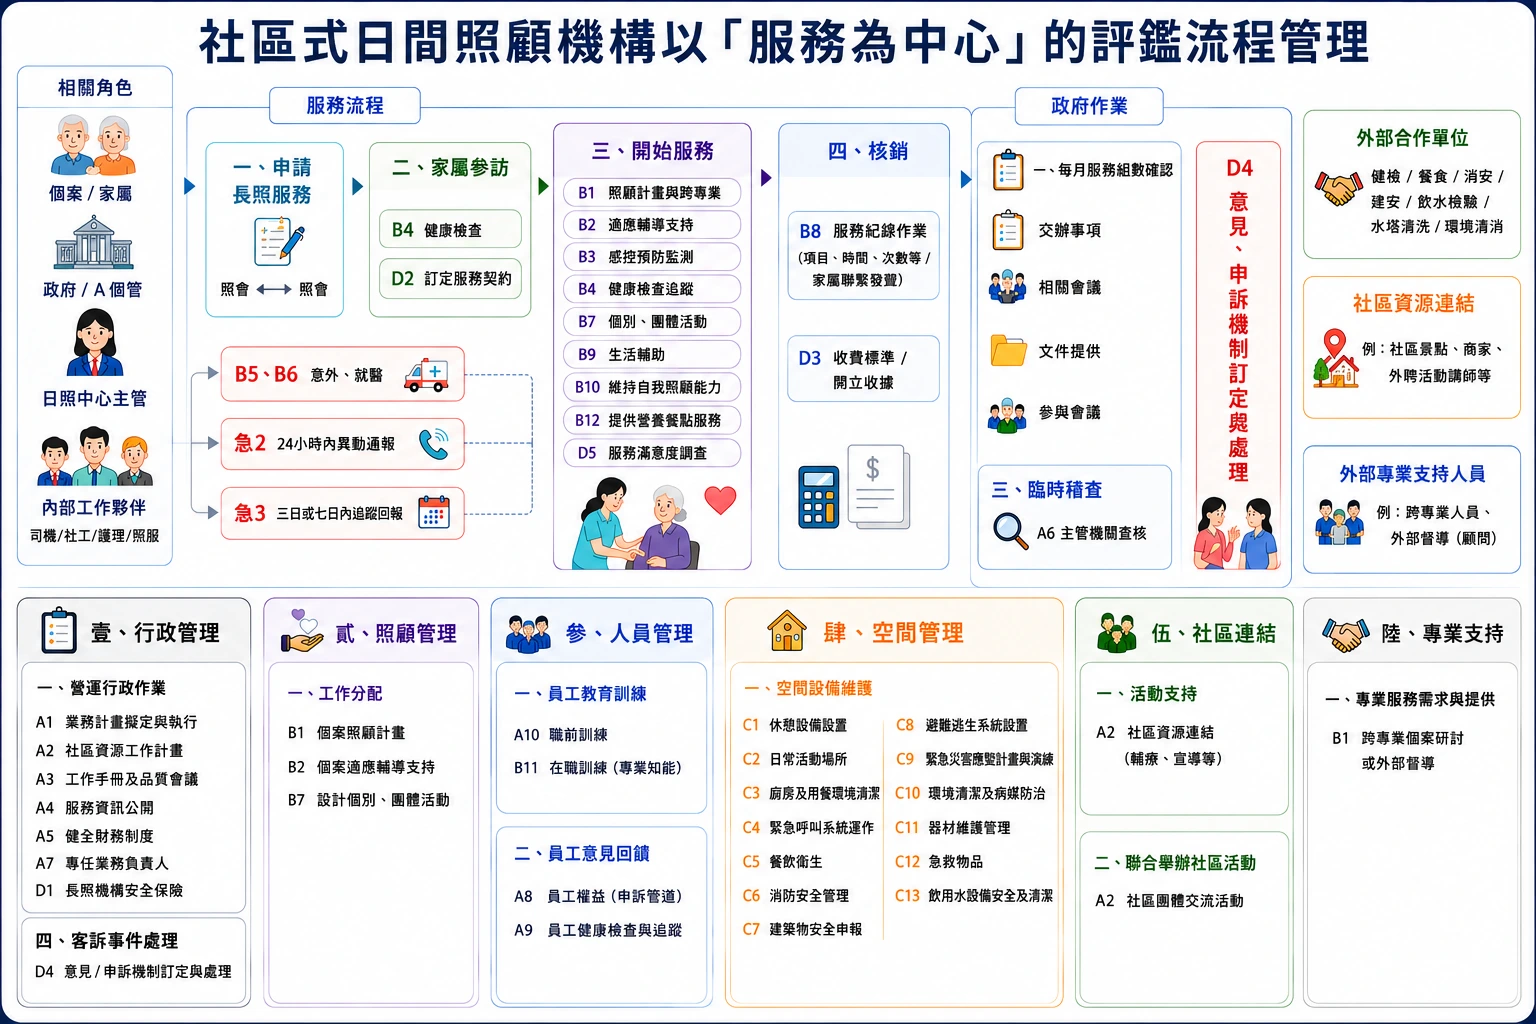
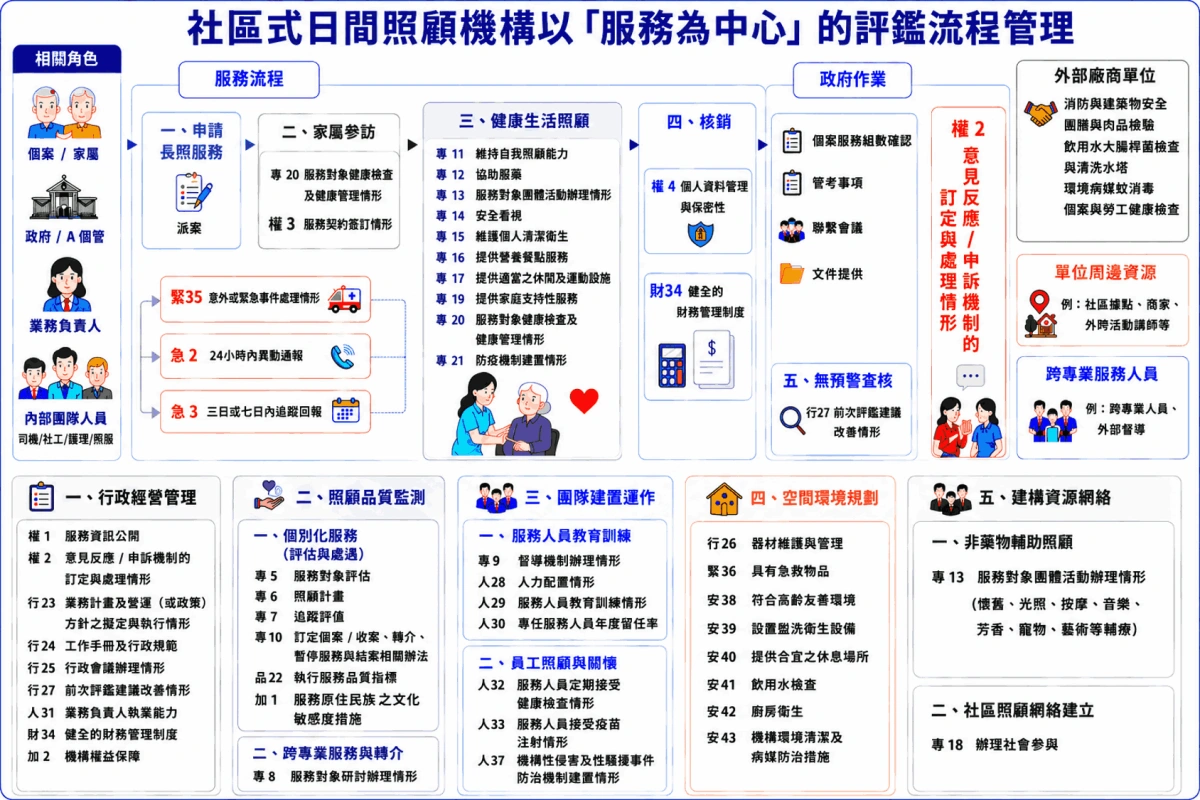
fix: 文章頁的 HERO 圖路徑漏了 ../，一直是壞的
文章頁在 /<slug>/ 底下，heroBlock 沒有加相對前綴，
實際請求的是 /<slug>/assets/img/...。Cloudflare Pages 對這種路徑
回 200 加首頁 HTML 而不是 404，瀏覽器拿到 HTML 當圖片，靜靜地壞掉。
原本寫死的 aspect-ratio 又把版位撐成正確形狀，肉眼更難發現。

一併處理：
- 移除寫死的 aspect-ratio，改由 img 的 width/height 決定
- 建置後檢查所有站內連結與資產是否存在，找不到就讓建置失敗
- 轉載文章換上原創繪製的 HERO 圖（原始檔在 assets-src/）
- 更新「服務為中心的評鑑流程管理」為作者提供的新版

diff --git a/docs/20260802-service-centered-accreditation/index.html b/docs/20260802-service-centered-accreditation/index.html
@@ -36,10 +36,10 @@
         <figure class="hero__figure">
           <img
             class="hero__img"
-            src="assets/img/hero-geriatrics-center.jpg"
-            alt="國家衛生研究院國家高齡醫學暨健康福祉研究中心的建築外觀與前方廣場"
-            width="1920"
-            height="1240"
+            src="../assets/img/hero-event-to-service.webp"
+            alt="左右對照圖：左側「事件中心」是散落傾斜的紙片，寫著臨時補件、反覆修改、資料前後不一致、追蹤斷點、同一份資料反覆多工；右側「服務中心」是編號一到五、整齊對齊並以連線串起的流程，依序為申請與照會、家屬參訪與訂約、服務執行與紀錄、核銷與收費、稽核與持續改善；下方列出五大工作情境。"
+            width="1600"
+            height="800"
             fetchpriority="high"
             decoding="async"
           />
@@ -101,8 +101,8 @@
 <figure>
   <a href="../assets/img/flow-service-centered-accreditation.webp" target="_blank" rel="noopener noreferrer">
     <img src="../assets/img/flow-service-centered-accreditation.webp"
-         alt="社區式日間照顧機構以服務為中心的評鑑流程管理全圖：上半部依申請長照服務、家屬參訪、開始服務、核銷、政府作業的順序排列各項評鑑指標；下半部歸納為行政管理、照顧管理、人員管理、空間管理、社區連結、專業支持六大工作情境。"
-         width="1536" height="1024" loading="lazy" decoding="async" />
+         alt="社區式日間照顧機構以服務為中心的評鑑流程管理全圖。上半部依服務發生的順序排列：申請長照服務、家屬參訪、健康生活照顧、核銷、政府作業與無預警查核，並標出對應的評鑑指標代碼；左側列出個案與家屬、政府 A 個管、業務負責人、內部團隊人員等相關角色，右側列出外部廠商單位、單位周邊資源與跨專業服務人員。下半部歸納為行政經營管理、照顧品質監測、團隊建置運作、空間環境規劃、建構資源網絡五大工作情境，各自列出所屬指標。"
+         width="1200" height="800" loading="lazy" decoding="async" />
   </a>
   <figcaption>社區式日間照顧機構以「服務為中心」的評鑑流程管理——以 115 年度臺北市政府社會局日間照顧機構法定評鑑基準為例（圖片來源／顏和平）。點圖可放大。</figcaption>
 </figure>
@@ -122,10 +122,7 @@
         <section class="credit">
           <h2 class="credit__head">圖片出處</h2>
           <p class="credit__body">
-            本頁 HERO 圖：<cite>National Center for Geriatrics and Welfare Research, NHRI</cite>，
-            作者 中華民國總統府（攝影：Wang Yu Ching / Office of the President），
-            取自 <a href="https://commons.wikimedia.org/wiki/File:2026.05.01_National_Center_for_Geriatrics_and_Welfare_Research,_NHRI_02.jpg" rel="license noopener noreferrer" target="_blank">Wikimedia Commons</a>，
-            依 <a href="https://creativecommons.org/licenses/by/4.0/" rel="license noopener noreferrer" target="_blank">CC BY 4.0</a> 授權使用，未經修改。
+            本頁 HERO 圖為本站原創繪製（原始檔：assets-src/hero-event-to-service.svg），非原刊媒體之圖像。
           </p>
         </section>
         <p class="footer__meta">

diff --git a/docs/assets/css/site.css b/docs/assets/css/site.css
@@ -141,8 +141,8 @@ h1, h2, h3, h4 { line-height: 1.35; text-wrap: balance; }
   width: 100%;
   max-width: var(--content);
   margin-inline: auto;
-  aspect-ratio: 1920 / 1240;
-  object-fit: cover;
+  /* 長寬比由 <img> 的 width/height 屬性決定，不寫死。
+     寫死會讓不同比例的文章專屬 HERO 圖被裁切。 */
   border-radius: var(--radius);
   box-shadow: var(--shadow);
   background: var(--border);

diff --git a/static/assets/css/site.css b/static/assets/css/site.css
@@ -141,8 +141,8 @@ h1, h2, h3, h4 { line-height: 1.35; text-wrap: balance; }
   width: 100%;
   max-width: var(--content);
   margin-inline: auto;
-  aspect-ratio: 1920 / 1240;
-  object-fit: cover;
+  /* 長寬比由 <img> 的 width/height 屬性決定，不寫死。
+     寫死會讓不同比例的文章專屬 HERO 圖被裁切。 */
   border-radius: var(--radius);
   box-shadow: var(--shadow);
   background: var(--border);

diff --git a/docs/20260802-introduction/index.html b/docs/20260802-introduction/index.html
@@ -36,7 +36,7 @@
         <figure class="hero__figure">
           <img
             class="hero__img"
-            src="assets/img/hero-geriatrics-center.jpg"
+            src="../assets/img/hero-geriatrics-center.jpg"
             alt="國家衛生研究院國家高齡醫學暨健康福祉研究中心的建築外觀與前方廣場"
             width="1920"
             height="1240"

diff --git a/content/posts/20260802-service-centered-accreditation.md b/content/posts/20260802-service-centered-accreditation.md
@@ -6,6 +6,11 @@ tags: 評鑑, 日間照顧, 流程管理
 originalSite: 創新照顧（侒可傳媒）
 originalUrl: https://www.ankecare.com/article/4571-2026-07-27-10-40-23
 originalDate: 2026-07-27
+heroImage: hero-event-to-service.webp
+heroWidth: 1600
+heroHeight: 800
+heroAlt: 左右對照圖：左側「事件中心」是散落傾斜的紙片，寫著臨時補件、反覆修改、資料前後不一致、追蹤斷點、同一份資料反覆多工；右側「服務中心」是編號一到五、整齊對齊並以連線串起的流程，依序為申請與照會、家屬參訪與訂約、服務執行與紀錄、核銷與收費、稽核與持續改善；下方列出五大工作情境。
+heroCredit: 本頁 HERO 圖為本站原創繪製（原始檔：assets-src/hero-event-to-service.svg），非原刊媒體之圖像。
 ---
 
 長照機構的評鑑準備與行政流程，長年來一直是機構經營管理上的重要課題。依據長期照顧服務機構評鑑辦法第 7 條第 3 項、第 4 項，以及長期照顧服務法第 39 條規定，主管機關必須對長照機構應予輔導、監督、考核、檢查及評鑑。評鑑作業的核心精神，旨在透過評鑑指標的把關，確保長照機構呈現符合規範的基礎品質標準。
@@ -53,8 +58,8 @@ originalDate: 2026-07-27
 <figure>
   <a href="../assets/img/flow-service-centered-accreditation.webp" target="_blank" rel="noopener noreferrer">
     <img src="../assets/img/flow-service-centered-accreditation.webp"
-         alt="社區式日間照顧機構以服務為中心的評鑑流程管理全圖：上半部依申請長照服務、家屬參訪、開始服務、核銷、政府作業的順序排列各項評鑑指標；下半部歸納為行政管理、照顧管理、人員管理、空間管理、社區連結、專業支持六大工作情境。"
-         width="1536" height="1024" loading="lazy" decoding="async" />
+         alt="社區式日間照顧機構以服務為中心的評鑑流程管理全圖。上半部依服務發生的順序排列：申請長照服務、家屬參訪、健康生活照顧、核銷、政府作業與無預警查核，並標出對應的評鑑指標代碼；左側列出個案與家屬、政府 A 個管、業務負責人、內部團隊人員等相關角色，右側列出外部廠商單位、單位周邊資源與跨專業服務人員。下半部歸納為行政經營管理、照顧品質監測、團隊建置運作、空間環境規劃、建構資源網絡五大工作情境，各自列出所屬指標。"
+         width="1200" height="800" loading="lazy" decoding="async" />
   </a>
   <figcaption>社區式日間照顧機構以「服務為中心」的評鑑流程管理——以 115 年度臺北市政府社會局日間照顧機構法定評鑑基準為例（圖片來源／顏和平）。點圖可放大。</figcaption>
 </figure>
